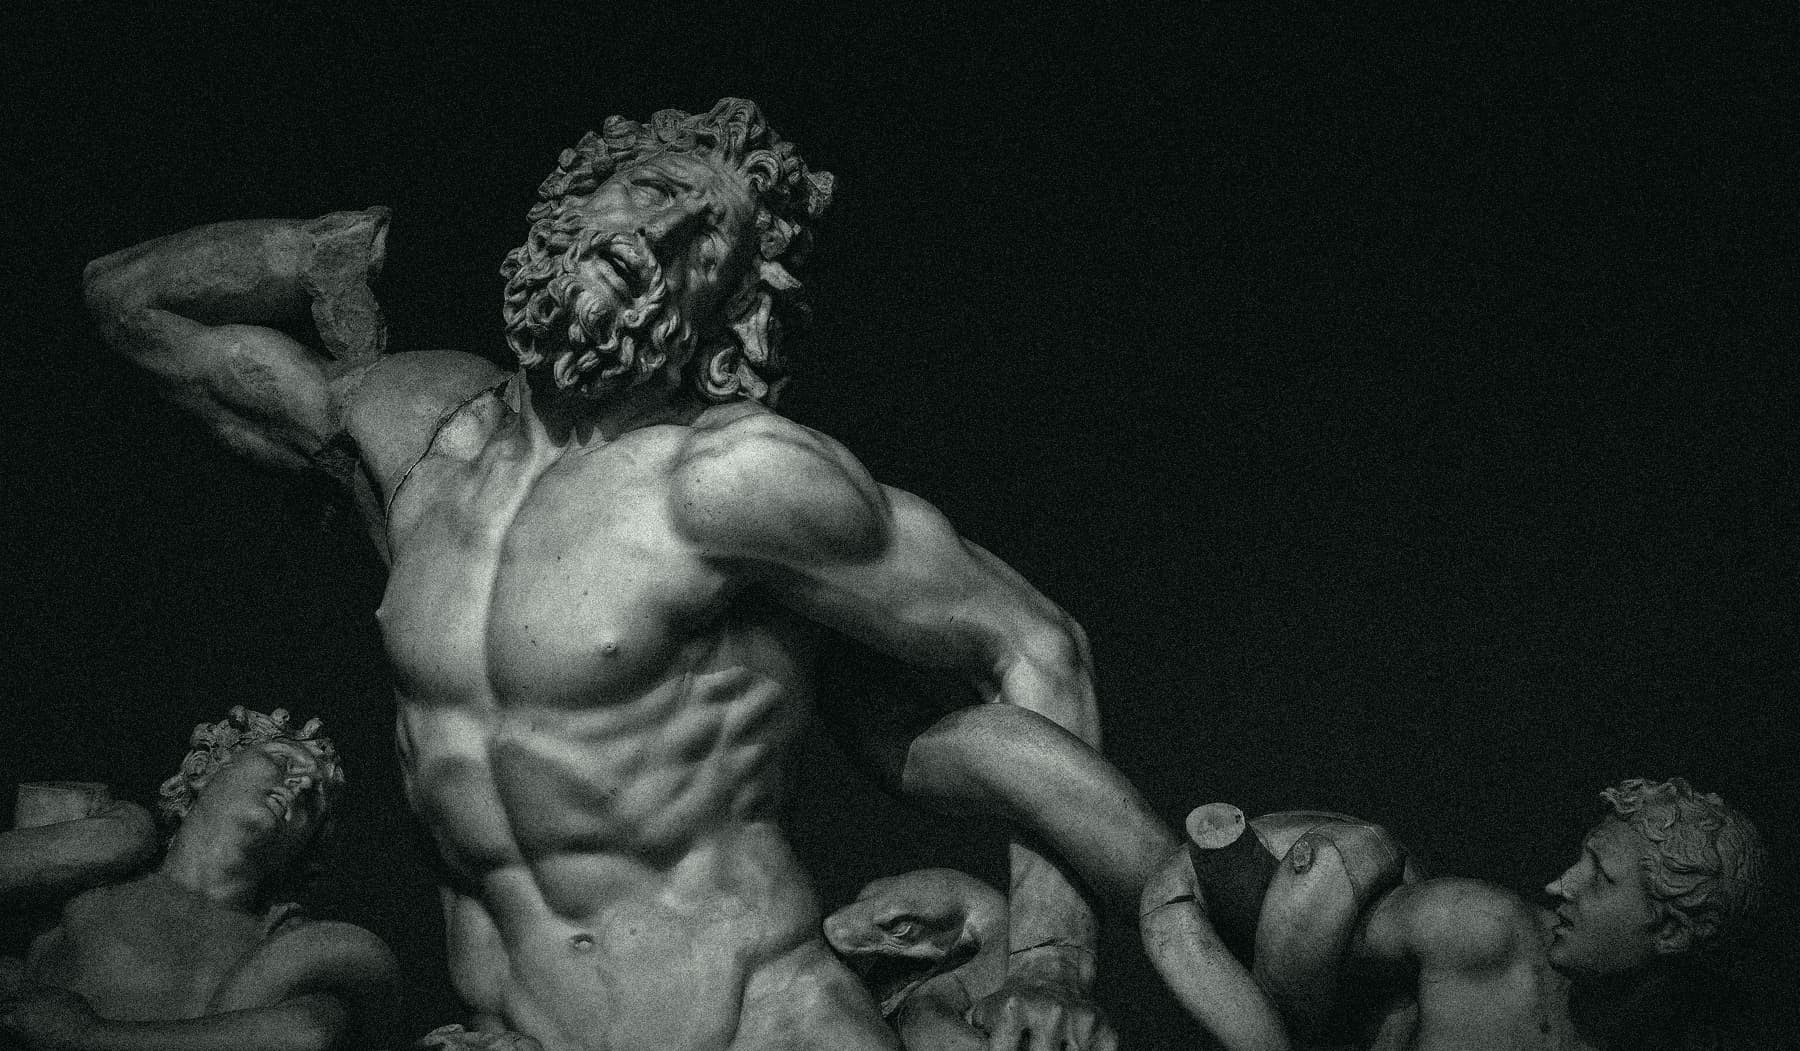
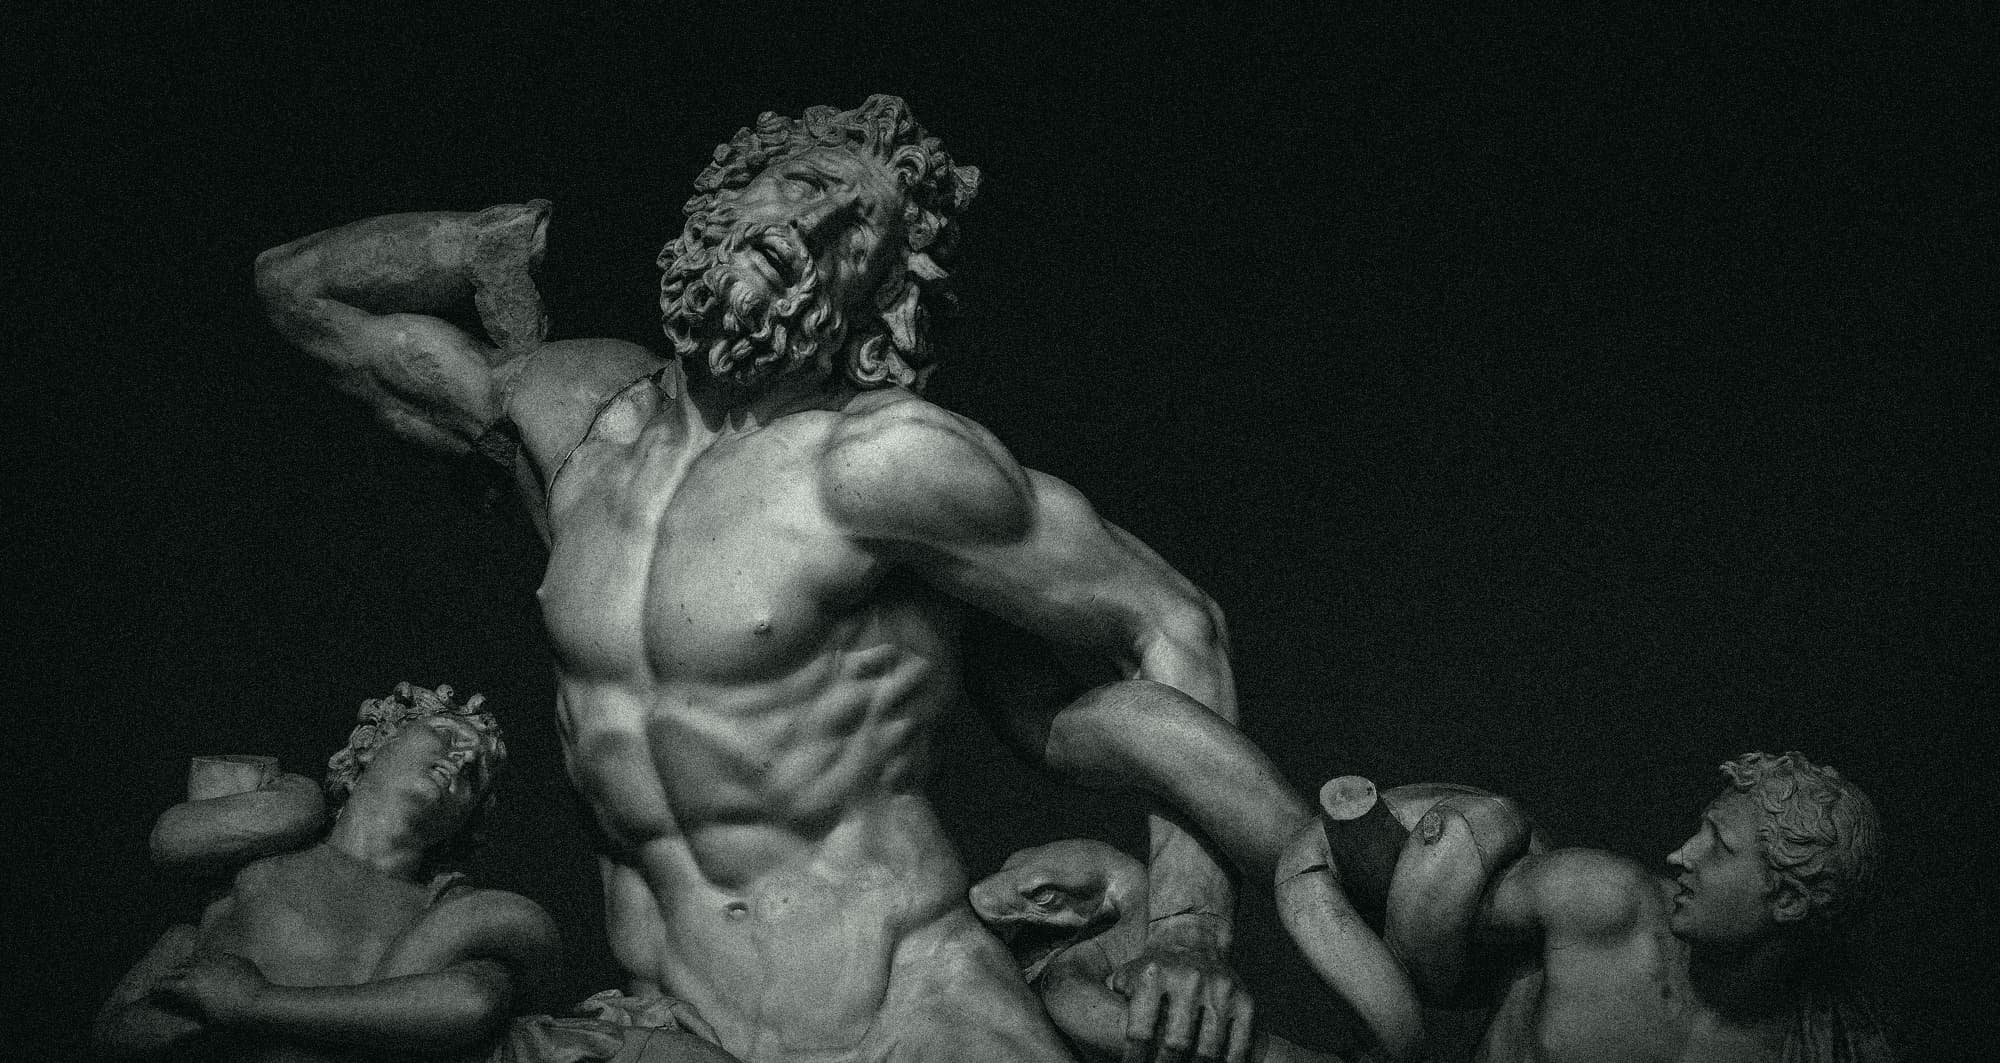
exp: Caesar from the bronze in Rome, close, turning; the Laocoön drawn back to take in both sons

Changed region(s): [[0.0, 0.0913, 0.9956, 1.0]]

diff --git a/src/data/art.ts b/src/data/art.ts
@@ -17,11 +17,11 @@ export interface Art {
 
 export const ART = {
   caesar: { name: 'Julius Caesar', where: 'The Tusculum portrait · Turin', w: 1400, h: 1746, credit: 'Photo: Marie-Lan Taÿ Pamart, public domain', source: 'https://commons.wikimedia.org/wiki/File:Head_of_Julius_Caesar_from_Tusculum_MAntTorino_2089_n02.jpg' },
-  // Not a photograph: a 3D model (made with AI), rendered all the way round by `npm run turn` (scripts/turn.mjs) into 48 frames on one sheet.
-  'caesar-turn': { name: 'Julius Caesar', where: 'A 3D model made with AI, by Alessio Langella for ITI Alghero', w: 480, h: 960, credit: 'Model: alessio.langella, CC BY', source: 'https://sketchfab.com/3d-models/caio-giulio-cesare-c0768bea587e421e86a4f86de23abb3e' },
+  // A 3D photo scan, rendered all the way round by `npm run turn` (scripts/turn.mjs) into 48 frames on one sheet.
+  'caesar-turn': { name: 'Julius Caesar', where: 'Via dei Fori Imperiali, Rome · 3D scan', w: 680, h: 840, credit: 'Scan: massimo.riccioni, CC BY', source: 'https://sketchfab.com/3d-models/statua-di-giulio-cesare-7fc6bfd0ea0643f6bd66baeaa8e3c2e3' },
   melencolia: { name: 'Melencolia I', where: 'Albrecht Dürer, 1514', w: 1000, h: 1322, credit: 'The Met, CC0', source: 'https://commons.wikimedia.org/wiki/File:Melencolia_I_MET_DP815743.jpg' },
   'gladiator-head': { name: 'The Borghese Gladiator', where: 'Agasias of Ephesus · Louvre, Paris', w: 900, h: 1062, credit: 'Photo: public domain', source: 'https://commons.wikimedia.org/wiki/File:Borghese_Gladiator_Louvre_Ma_527_n3.jpg' },
-  laocoon: { name: 'Laocoön and His Sons', where: 'Vatican Museums', w: 1800, h: 1051, credit: 'Photo: Wilfredor, CC0', source: 'https://commons.wikimedia.org/wiki/File:Laoco%C3%B6n_and_his_sons_group.jpg' },
+  laocoon: { name: 'Laocoön and His Sons', where: 'Vatican Museums', w: 2000, h: 1063, credit: 'Photo: Wilfredor, CC0', source: 'https://commons.wikimedia.org/wiki/File:Laoco%C3%B6n_and_his_sons_group.jpg' },
   mercury: { name: 'Mercury', where: 'Giambologna, c. 1580 · The Met', w: 1000, h: 1634, credit: 'CC0', source: 'https://commons.wikimedia.org/wiki/File:Mercury_MET_DP-733-001.jpg' },
 } satisfies Record<string, Art>;
 

diff --git a/src/styles/site.css b/src/styles/site.css
@@ -414,7 +414,7 @@ body::after {
   width: auto;
   height: 100%;
   margin-inline: auto;
-  aspect-ratio: 1 / 2 !important;
+  aspect-ratio: 680 / 840 !important;
   -webkit-mask-size: 800% 600%;
   mask-size: 800% 600%;
   -webkit-mask-position: calc(var(--col, 0) * 100% / 7) calc(var(--row, 0) * 100% / 5);
@@ -842,18 +842,16 @@ body::after {
   position: relative;
   display: grid;
   place-items: center;
-  min-height: 110vh;
+  min-height: clamp(560px, 60vw, 110vh);
   overflow: hidden;
 }
 
 .interlude-photo {
   position: absolute;
-  top: 6%;
+  top: 10%;
   left: 0;
   width: 100%;
-  height: 110%;
-  object-fit: cover;
-  object-position: center 22%;
+  height: auto;
 }
 
 .interlude::before {
@@ -1465,8 +1463,15 @@ body::after {
 }
 
 @media (max-width: 860px) {
+  .interlude {
+    min-height: 100svh;
+  }
+
   .interlude-photo {
-    object-position: 30% 22%;
+    top: 6%;
+    height: 110%;
+    object-fit: cover;
+    object-position: 38% 22%;
   }
 
   :root {

diff --git a/CLAUDE.md b/CLAUDE.md
@@ -6,10 +6,10 @@ A from-scratch redesign, after Nous Research's Hermes Agent and Portal sites: cl
 
 One page, in English at `/` and Portuguese at `/pt/` (`src/pages/index.astro`, `src/pages/pt/index.astro`, both rendering `src/views/Site.astro`). Everything it says is in `src/data/site.ts` (both languages, `t(lang)`); the projects are in `src/data/projects.ts`.
 
-- **Layout:** a fixed bar across the top (brand, numbered sections with the one being read underlined, GitHub, LinkedIn, EN · PT, Get in touch; on a phone a Menu button and a full-screen sheet). Then: a full-screen hero (a standing Julius Caesar, printed in row by row with slow rays behind, who turns all the way round as the hero scrolls away; a huge upper-case headline whose words rise in); Projects as a deck of cards (the screenshot, or code, on one side; the project on the other) that stack under the bar as the page scrolls, each held a little lower than the last (plain on phones), Melencolia faint behind the head; a full-screen grainy monochrome Laocoön with a Latin motto; About beside a sticky statue, holding the bio, where I've worked (a ruled list) and what I work with (a logo beside each, `src/data/logos.ts`: simple-icons where it has the brand, a line icon where it doesn't); Contact beside Giambologna's Mercury (the messenger) in an orbit: the address in a solid accent block with a copy button, then LinkedIn, GitHub and the CV as ruled rows. The footer opens with a closing line (the motto, large) and the address as a button, then the brand, columns for the sections, elsewhere and language, the picture credits (`SHOWN` in Site.astro), a back-to-top line, and the name, outlined, cut by the page's foot.
+- **Layout:** a fixed bar across the top (brand, numbered sections with the one being read underlined, GitHub, LinkedIn, EN · PT, Get in touch; on a phone a Menu button and a full-screen sheet). Then: a full-screen hero (Julius Caesar, the bronze in Rome, seen close, printed in row by row with slow rays behind, who turns all the way round as the hero scrolls away; a huge upper-case headline whose words rise in); Projects as a deck of cards (the screenshot, or code, on one side; the project on the other) that stack under the bar as the page scrolls, each held a little lower than the last (plain on phones), Melencolia faint behind the head; a full-screen grainy monochrome Laocoön with a Latin motto; About beside a sticky statue, holding the bio, where I've worked (a ruled list) and what I work with (a logo beside each, `src/data/logos.ts`: simple-icons where it has the brand, a line icon where it doesn't); Contact beside Giambologna's Mercury (the messenger) in an orbit: the address in a solid accent block with a copy button, then LinkedIn, GitHub and the CV as ruled rows. The footer opens with a closing line (the motto, large) and the address as a button, then the brand, columns for the sections, elsewhere and language, the picture credits (`SHOWN` in Site.astro), a back-to-top line, and the name, outlined, cut by the page's foot.
 - **Behaviour** (`src/scripts/site.ts`): the section being read underlines its link; the bar fills once the hero is behind (`html.past-hero`); `.reveal` elements fade up once in view (`html.reveals`); the menu; copying the email address. Scroll-driven CSS sinks Caesar as the hero leaves and drifts the painting.
 - **Pictures:** `src/components/Art.astro` paints a one-ink PNG (`public/art/<id>.png`) through a CSS mask in `--art-ink`, at its own proportions (sizes and credits in `src/data/art.ts`). Project windows are scanned in on arrival. Project screenshots are toned green under a halftone screen (`luminosity` over the accent), and show their own colours under the pointer.
-- **Caesar turning:** `npm run turn` (`scripts/turn.mjs`) loads a 3D model (`art-src/caesar-3d/source/model.glb`, kept out of the repo: "Caio Giulio Cesare" by alessio.langella on Sketchfab, CC BY, and made with AI, so it isn't a scan of a real statue) in headless Chrome with three.js (a dev dependency only), renders it from 48 angles, dithers them all with one tone and lays them out 8 × 6 on one sheet, `public/art/caesar-turn.png`. The hero shows one frame at a time through the mask (`.caesar-turn`), and `site.ts` picks the frame from how far the hero has scrolled (none with reduced motion). To use another model, change `MODEL` (and `FRONT`, the angle it starts at) and re-run.
+- **Caesar turning:** `npm run turn` (`scripts/turn.mjs`) loads a 3D photo scan of the bronze Caesar on Via dei Fori Imperiali ("Statua di Giulio Cesare" by massimo.riccioni on Sketchfab, CC BY; its download is a .rar holding an OBJ, extracted into `art-src/caesar-rome/source/x/`, kept out of the repo) in headless Chrome with three.js (a dev dependency only). It drops the scan's slivers, the sky caught above his head (everything over `CROWN`) and a stray line element, frames him close (head to below the knees, `SHOW`, no pedestal), renders 48 angles, dithers them all with one tone and lays them out 8 × 6 on one sheet, `public/art/caesar-turn.png`. The hero shows one frame at a time through the mask (`.caesar-turn`), and `site.ts` picks the frame from how far the hero has scrolled (none with reduced motion).
 - **Monochrome pictures:** besides the dithered ones, `npm run art` makes `MONO` pictures in the Hermes manner (greys from the night to the ink, darkened at the edges, heavy film grain baked in, saved as JPEG): the Laocoön across the screen in the interlude, and a strip of its marble (`laocoon-strip.jpg`) that the footer's giant name is cut out of (`background-clip: text`).
 - **Making pictures:** `npm run art` (`scripts/art.mjs`) reads sources from `art-src/` (gitignored), crops, tones and dithers them (ordered Bayer dither in 2px pixels for statues and engravings, round-dot halftone for paintings) into transparent PNGs. Add a picture: put the source in `art-src/`, add it to `ART` in the script and in `src/data/art.ts` with its size and credit. Only use public domain or freely licensed images, and credit them (the footer lists `ART`).
 - **Style:** `src/styles/site.css`. Oswald for headlines and upper-case labels, Geist Mono for text (Google Fonts, in `BaseHead.astro`). Accent `--accent` #34d27b; a 4px accent frame round the screen; a faint grain over everything.
